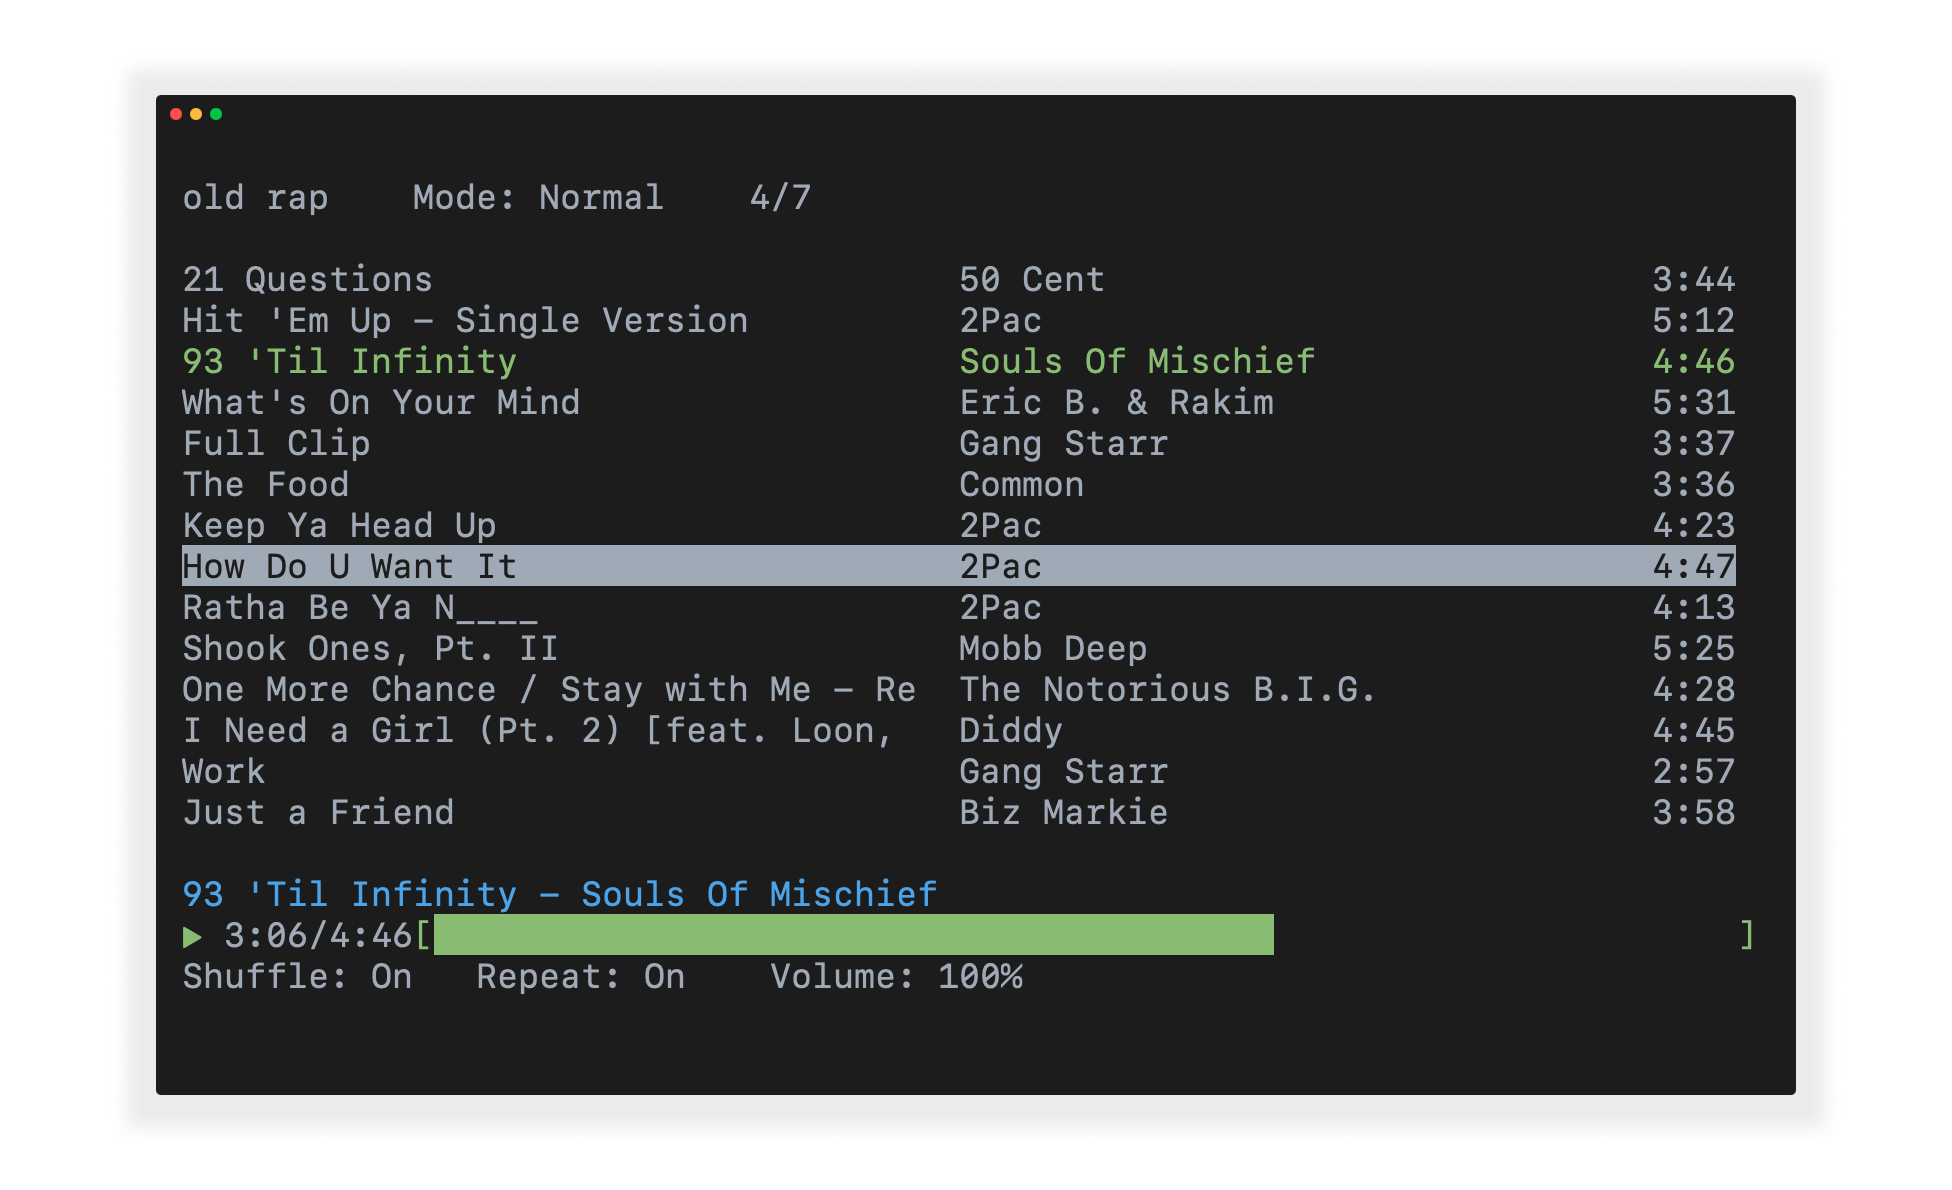
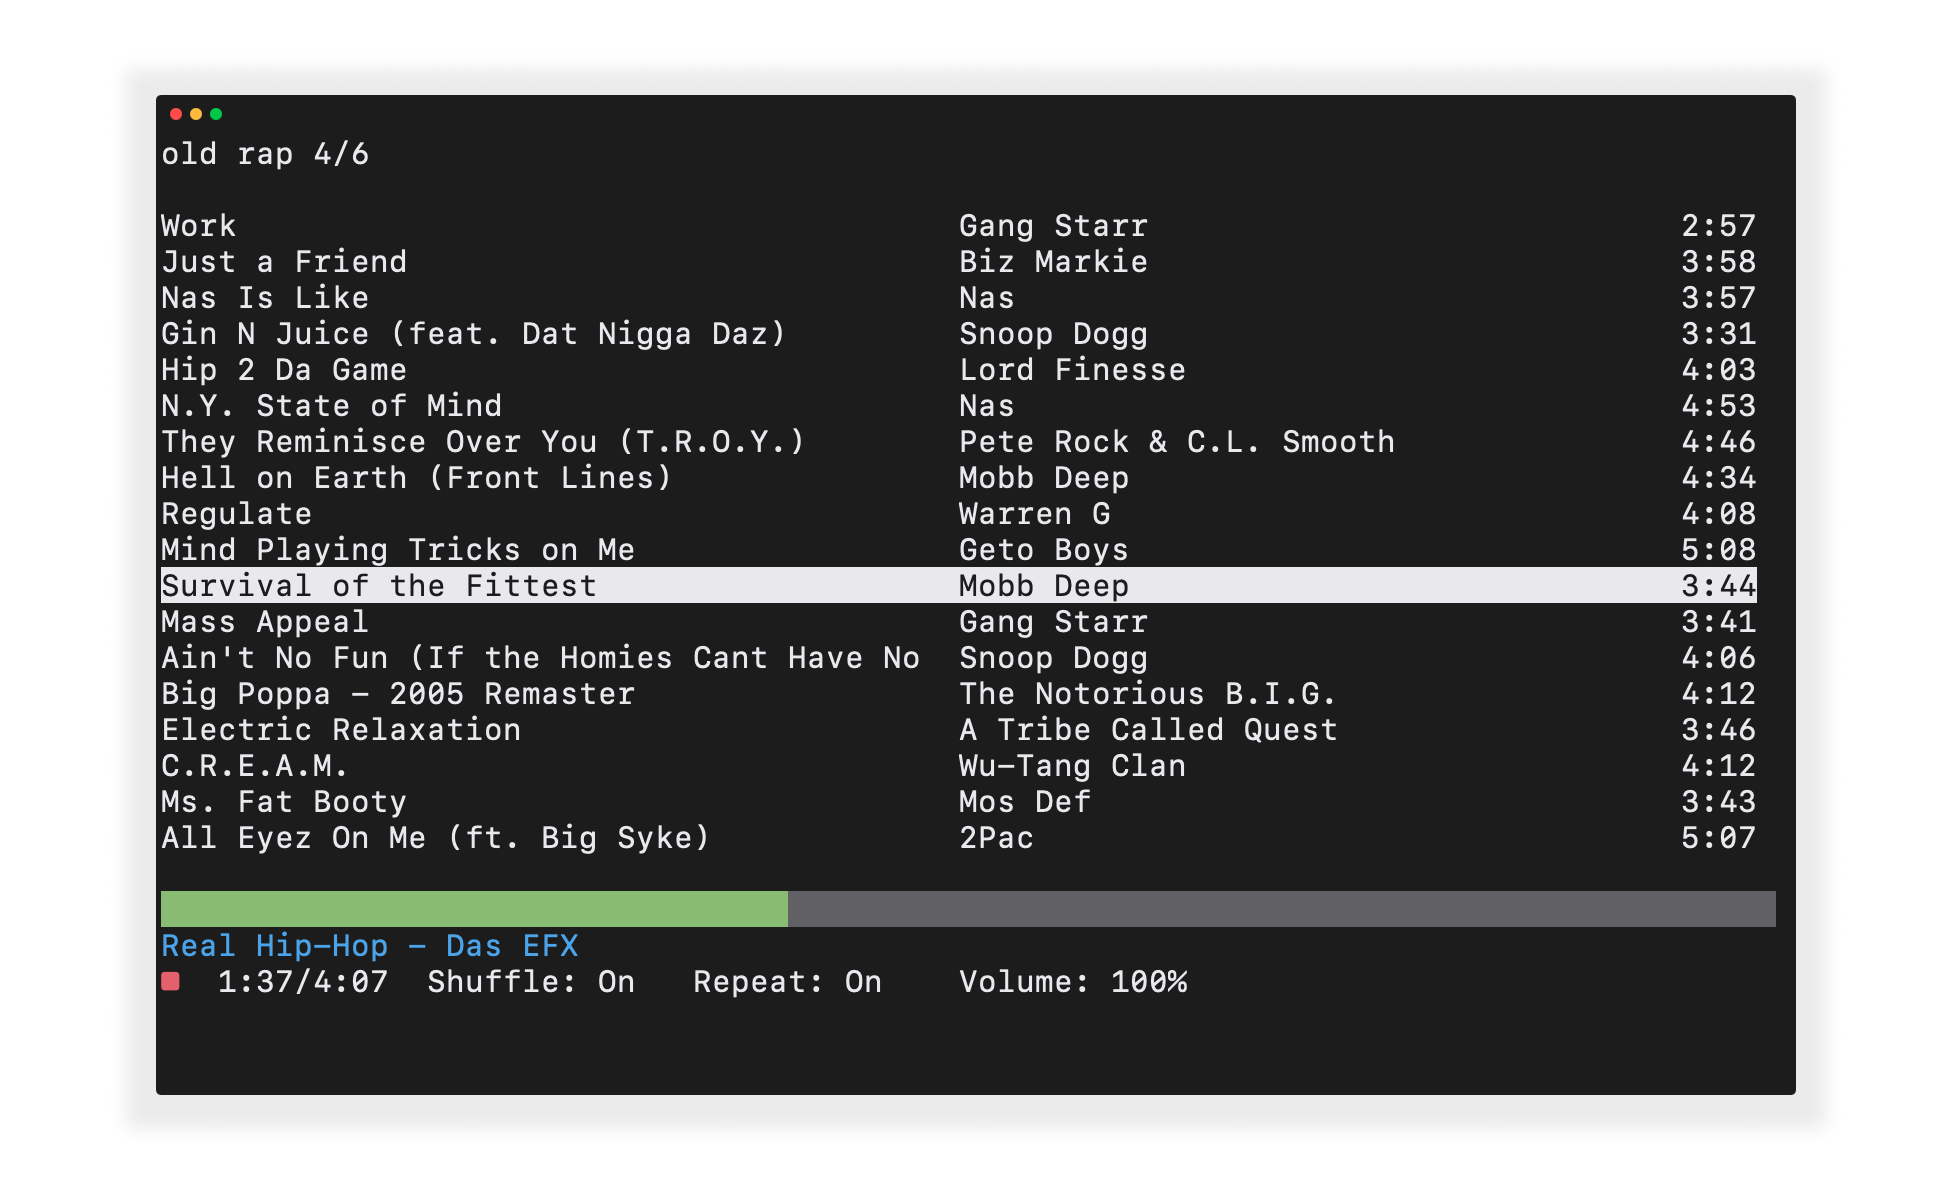
new player visuals, updated screenshot

diff --git a/Components/Main/Player.py b/Components/Main/Player.py
@@ -57,7 +57,7 @@ class Player(Component):
         threading.Thread(target=self.getPlayerContext, daemon=True).start()
 
     def generatePlayBar(self, width):
-        barWidth = width - 2
+        barWidth = width
         barPercent = self.currentTime / self.currentTotalTime
         barChars = int(barPercent * barWidth)
         bar = f"{term.green}"
@@ -82,7 +82,6 @@ class Player(Component):
 
     def output(self, lines):
         width = viewManager.term.width
-        width = width - 2
 
         songInfo = f"{self.currentSong} - {self.currentArtist}"
 
